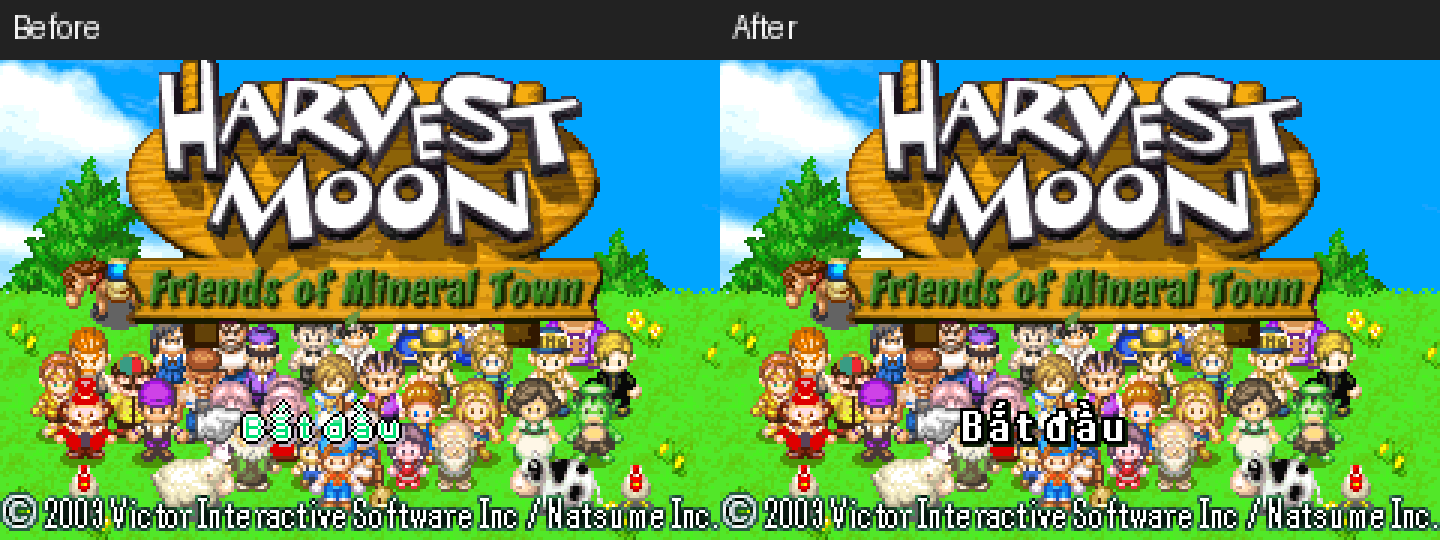
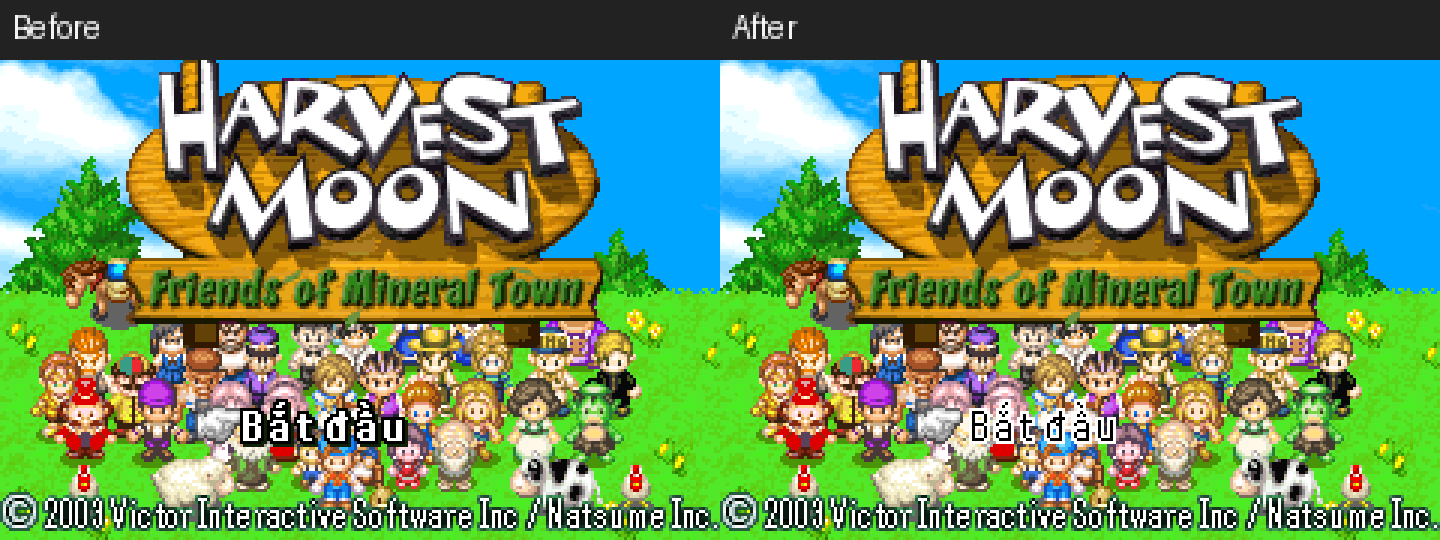
Refine title lettering to thin dark strokes matching reference style

Changed region(s): [[0.6562, 0.7407, 0.7812, 0.8296], [0.1562, 0.7407, 0.2812, 0.8296]]

diff --git a/tools/title_graphics.py b/tools/title_graphics.py
@@ -19,11 +19,11 @@ TILE_SIZE = 14 * 32
[2 lines of base64/hex data omitted]
 ART_PATH = Path(__file__).resolve().parents[1]/'localization/vi/title_start.json'
-TITLE_REVISION = 'native-bold-white-v2'
+TITLE_REVISION = 'native-thin-ink-v3'
 
 
 def native_title_mask(rom):
-    """Native 10px capitals/7px lowercase, bolded horizontally by one pixel.
+    """Native 10px capitals/7px lowercase with unexpanded one-pixel strokes.
 
     Unlike dialogue layout, this fixed graphic uses trimmed horizontal bearings,
     three empty columns between letters and five between the two words.
@@ -41,8 +41,8 @@ def native_title_mask(rom):
             left = min(x for x,y in points)
             right = max(x for x,y in points)
             points = {(cursor+x-left,y) for x,y in points}
-            ink |= points | {(x+1,y) for x,y in points}
-            cursor += right-left+2+3
+            ink |= points
+            cursor += right-left+1+3
     width = max(x for x,y in ink)+1
     left = (56-width)//2
     ink = {(x+left,y) for x,y in ink}
@@ -149,13 +149,13 @@ def title_pixels():
     if len(rows) != 16 or any(len(r) != 56 or set(r)-set('.#') for r in rows):
         raise FormatError('title art must be a 56x16 binary stroke mask')
     ink = {(x,y) for y,r in enumerate(rows) for x,c in enumerate(r) if c == '#'}
-    # Solid white strokes with one dark border stay readable on the busy title.
-    black = {(x+dx,y+dy) for x,y in ink for dx in (-1,0,1) for dy in (-1,0,1)}
-    shadow = {(x+1,y+1) for x,y in black}
-    if any(not (0 <= x < 56 and 0 <= y < 16) for x,y in black|shadow):
-        raise FormatError('title outline/shadow exceeds sprite bounds')
+    # The reference uses slender dark strokes on white. A single light halo
+    # preserves that appearance against the title characters without a shadow.
+    halo = {(x+dx,y+dy) for x,y in ink for dx in (-1,0,1) for dy in (-1,0,1)}
+    if any(not (0 <= x < 56 and 0 <= y < 16) for x,y in halo):
+        raise FormatError('title halo exceeds sprite bounds')
     pixels = [[0]*56 for _ in range(16)]
-    for points,color in [(shadow,9),(black,14),(ink,13)]:
+    for points,color in [(halo,13),(ink,14)]:
         for x,y in points:
             pixels[y][x] = color
     return pixels

diff --git a/docs/TRANSLATION_PROGRESS.md b/docs/TRANSLATION_PROGRESS.md
@@ -179,3 +179,19 @@ Bộ 55 pytest và smoke trên mGBA 0.10.5/0.11-dev kiểm tra lại artwork tro
 OAM/chuyển động title, Start vào tạo nhân vật, hội thoại, menu và save/load.
 Bản vá/manifest và evidence được cập nhật; số chuỗi dịch vẫn 385 + 1 asset.
 Giới hạn: chưa thử GBA thật; phần nội dung chưa dịch không thay đổi.
+
+## Phiên 2026-10-22 — làm mảnh title theo ảnh tham khảo
+
+Người dùng muốn chữ “Bắt đầu” thanh hơn và gửi mẫu chữ pixel tối trên nền trắng.
+Đã đổi riêng title sang `native-thin-ink-v3`: bỏ giãn nét ngang, giữ nguyên nét
+1px của thân chữ ROM/dấu Việt. Nét tối với halo trắng 1px, bỏ bóng đổ; giữ dáng
+vuông, thân hoa 10px/thường 7px, baseline hàng 13 và khoảng chữ/từ 3px/5px.
+Đây là thiết kế theo hình tham khảo, không khẳng định nhận diện được tên font
+trong ảnh hoặc sao chép chính xác từng pixel của font đó.
+
+Đã xem framebuffer cold boot, ảnh so sánh bản dày/bản mảnh và mẫu artwork trên
+nền trắng. Bộ 55 pytest cùng smoke mGBA 0.10.5/0.11-dev kiểm tra tile/VRAM,
+chuyển động title, Start vào game mới, menu, hội thoại và lưu/nạp SRAM.
+Kiểm tra byte chứng minh ngoài asset title mở rộng không thay đổi gì so với
+release trước; font hội thoại và gameplay không đổi. Cập nhật IPS/manifest,
+ảnh evidence và báo cáo; vẫn 385 chuỗi dịch + 1 asset, chưa thử GBA thật.

diff --git a/docs/VIETNAMESE_FONT.md b/docs/VIETNAMESE_FONT.md
@@ -135,10 +135,10 @@ Font của lịch/đồng hồ/đồ họa title là hệ riêng. Không tuyên 
 font/toàn game hoặc đã thêm proportional spacing vào các hàm tile-aligned.
 
 Prompt title `Start` được thay riêng bằng artwork **Bắt đầu** 56×16.
-Revision `native-bold-white-v2` lấy outline chữ ROM gốc + dấu Việt lúc build,
-làm đậm ngang 1px: thân hoa cao 10px, thân thường 7px, cùng baseline hàng 13.
-Tô trắng đặc, viền đen một lớp và bóng tối giúp đọc trên nền nhiều nhân vật;
+Revision `native-thin-ink-v3` lấy outline chữ ROM gốc + dấu Việt lúc build,
+giữ nét 1px: thân hoa cao 10px, thân thường 7px, cùng baseline hàng 13.
+Nét tối trên halo trắng 1px theo ảnh tham khảo; không giãn nét, không bóng đổ;
 dấu sắc + breve ở ắ, gạch đ, huyền + mũ ở ầ giữ đủ hàng pixel. Khoảng trống
-giữa chữ 3px, giữa từ 5px. Mask và viền/bóng nằm gọn trong 14 tile gốc,
+giữa chữ 3px, giữa từ 5px. Mask và halo nằm gọn trong 14 tile gốc,
 không đổi font hội thoại/spacing runtime. Xem [TEXT_SYSTEM.md](TEXT_SYSTEM.md)
 và `title-start.png`, `title-font-comparison.png` trong evidence.

diff --git a/docs/evidence/README.md b/docs/evidence/README.md
@@ -20,9 +20,11 @@ Target ROM và bản vá được định danh trong `validation.json` và
   người dùng gửi. Không đóng gói file OTF; build dùng outline ROM.
 - `title-start.png`: framebuffer mGBA 0.10.5, cold boot và nhấn Start để tới
   title; prompt đồ họa đã đổi thành **Bắt đầu**. Không ghép chữ lên ảnh.
-- `title-font-comparison.png`: hai framebuffer title trước/sau bản sửa độ rõ,
+- `title-font-comparison.png`: hai framebuffer title trước/sau bản sửa nét mảnh,
   phóng nguyên pixel 3 lần; nhãn Before/After nằm ngoài ảnh game. Bản mới dùng
-  chữ trắng nét dày, viền đen một lớp, thân chữ và dấu từ font ROM/Việt v2.
+  nét tối mảnh 1px, halo trắng, không bóng; thân chữ/dấu từ font ROM/Việt v2.
+- `title-font-sample.png`: artwork tile hiện tại trên nền trắng, phóng nguyên
+  pixel 3 lần để so dáng chữ với ảnh tham khảo; đây không phải framebuffer game.
 
 Ảnh đã được xem thủ công. Các phép so pixel/canary và kết quả pytest nằm trong
 `validation.json`. Probe hàm dùng trạng thái emulator cô lập và không được xem

diff --git a/README_VI.md b/README_VI.md
@@ -11,7 +11,8 @@ Không chứa hoặc tự tải ROM thương mại. Bản vá IPS nằm trong `p
 - 385 bản ghi dịch nháp: 346 tên vật phẩm, 21 mô tả, 7 menu, 11 chuỗi hội thoại/
   dẫn chuyện. Tên riêng được giữ nguyên khi phù hợp.
 - Đồ họa chữ `Start` ở màn hình khởi đầu đã đổi thành **Bắt đầu**, có dấu;
-  chữ trắng nét dày, viền đen mỏng; giữ kích thước sprite và thao tác nút Start.
+  nét tối mảnh 1px, viền trắng nhẹ theo ảnh tham khảo; giữ kích thước sprite
+  và thao tác nút Start.
 - Font 134 chữ Việt; ASCII/chữ có dấu cùng baseline, giữ nét và advance 8px gốc.
   Bản sửa v2 xử lý lỗi lệch thân chữ/spacing; xem ảnh trước–sau trong `docs/evidence`.
 - Chèn lại ở vùng ROM mở rộng, giữ nguyên bytecode sự kiện và dữ liệu gameplay.

diff --git a/docs/TEXT_SYSTEM.md b/docs/TEXT_SYSTEM.md
@@ -143,7 +143,8 @@ y dao động 112..114. Đây là hình pixel, không dùng codec EB hoặc UTF-
 `tools/title_graphics.py` kiểm tra SHA-256 asset nguồn và dữ liệu giải nén,
 thay đúng 14 tile, giữ nguyên mọi byte khác trong asset. Mask ở
 `localization/vi/title_start.json` hiện dùng thân chữ ROM gốc và dấu Việt từ
-font v2, làm đậm ngang 1px. Chữ tô trắng đặc, viền đen 1px và bóng tối,
+font v2, giữ nét mảnh 1px, không giãn nét. Revision `native-thin-ink-v3`
+dùng nét tối, halo trắng 1px và không có bóng, theo mẫu người dùng gửi;
 dùng palette title sẵn có. `native_title_mask(rom)` tái tạo mask từ ROM đã
 xác minh; giữ baseline, tách 3 cột trống giữa chữ và 5 cột giữa từ. Đóng gói
 lại bằng mode literal 040 mà `Unpack`
